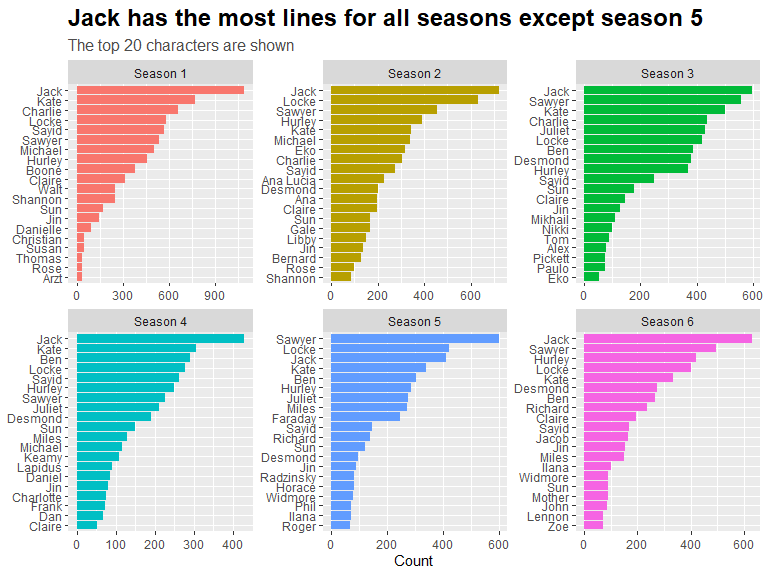
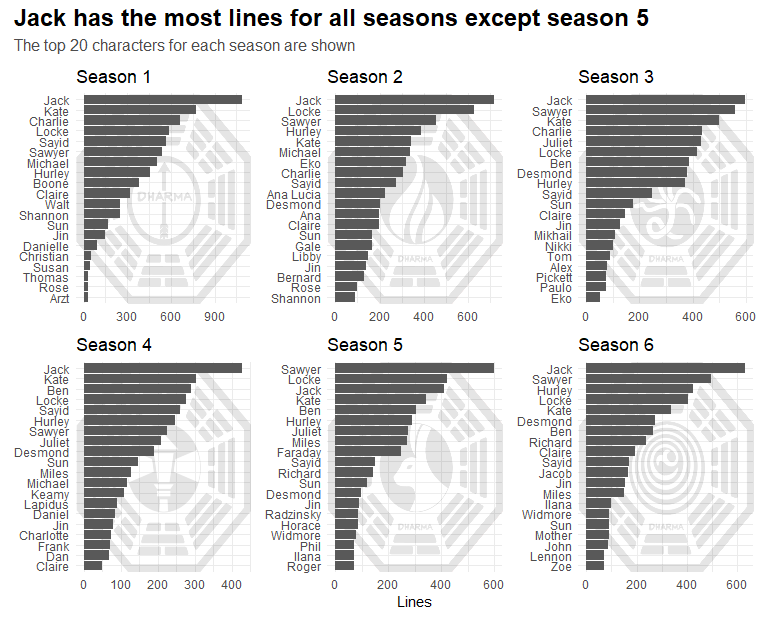
add lost theme to second plot

diff --git a/README.md b/README.md
@@ -8,6 +8,7 @@ library(glue)
 library(ggimage)
 library(jpeg)
 library(grid)
+library(patchwork)
 ```
 
 ``` r
@@ -32,7 +33,7 @@ lost <- lost %>%
 ### Which Lost characters have the most lines?
 
 ``` r
-bg_img <- readJPEG("images/dharma_logo_alpha_10.jpg")
+bg_img <- readPNG("images/dharma_logo_alpha_10.png")
 
 top_n  <- 30
 
@@ -49,7 +50,8 @@ lost %>%
          y = NULL,
          title = "Jack, Sawyer, and Locke have the most lines in LOST",
          subtitle = glue("The top {top_n} characters are shown")) +
-    scale_x_continuous(labels = comma_format())
+    scale_x_continuous(labels = comma_format()) +
+    theme_minimal()
 ```
 
 ![](README_files/figure-markdown_github/unnamed-chunk-4-1.png)
@@ -59,26 +61,38 @@ lost %>%
 ### Which characters have the most lines per season?
 
 ``` r
-# https://stackoverflow.com/questions/44688623/adding-custom-images-to-ggplot-facets
-# https://lostpedia.fandom.com/wiki/DHARMA_Initiative_stations
+plot_top_lines <- function(tbl, season_n, bg_img, x_label = NULL){
+    tbl %>%
+        filter(season == glue("Season {season_n}")) %>%
+        mutate(character = fct_reorder(character, n)) %>%
+        ggplot(aes(n, character)) +
+        annotation_custom(rasterGrob(readPNG(bg_img),
+                                     width = unit(1, "npc"),
+                                     height = unit(1, "npc")),
+                          -Inf, Inf, -Inf, Inf) +
+        geom_col() +
+        labs(x = x_label,
+             y = NULL,
+             title = glue("Season {season_n}")) +
+        theme_minimal()
+}
 
-lost %>%
+plot_2_data <- lost %>%
     count(season, character) %>%
     group_by(season) %>%
     slice_max(n, n = 20) %>% 
     ungroup() %>%
     mutate(character = if_else(character == "Christian Shephard", "Christian", character)) %>%
-    mutate(character = reorder_within(character, n, season)) %>%
-    mutate(season = glue("Season {season}")) %>%
-    ggplot(aes(n, character, fill = season)) +
-    geom_col() +
-    facet_wrap(~season, scales = "free") +
-    labs(x = "Count",
-         y = NULL,
-         title = "Jack has the most lines for all seasons except season 5",
-         subtitle = "The top 20 characters are shown") +
-    scale_y_reordered() +
-    theme(legend.position = "none")
+    mutate(season = glue("Season {season}"))
+
+plot_top_lines(plot_2_data, 1, "images/the_arrow_alpha_10.png") + 
+    plot_top_lines(plot_2_data, 2, "images/the_flame_alpha_10.png") +
+    plot_top_lines(plot_2_data, 3, "images/the_hydra_alpha_10.png") +
+    plot_top_lines(plot_2_data, 4, "images/the_lamp_post_alpha_10.png") +
+    plot_top_lines(plot_2_data, 5, "images/the_looking_glass_alpha_10.png", "Lines") +
+    plot_top_lines(plot_2_data, 6, "images/the_orchid_alpha_10.png") +
+    plot_annotation(title = "Jack has the most lines for all seasons except season 5",
+                    subtitle = "The top 20 characters for each season are shown")
 ```
 
 ![](README_files/figure-markdown_github/unnamed-chunk-5-1.png)
